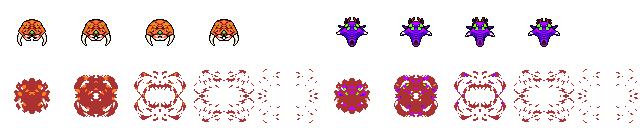
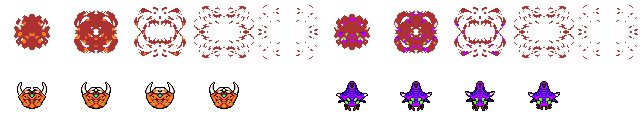
feat: Yellow Crab boss part 1

diff --git a/src/assets-loader/enemy-ships.js b/src/assets-loader/enemy-ships.js
@@ -1,21 +1,21 @@
 export default () => {
-  Crafty.c('Sprite_EnemyBoss01', {
+  Crafty.c('Sprite_EnemyBossYellowCrab', {
     init: function () {
-      this.requires('Canvas, SpriteAnimationExt, EnemyBoss01Sprite')
-        .origin(32, 32)
+      this.requires('Canvas, SpriteAnimationExt, EnemyBossYellowCrabSprite')
+        .attr({ w: 96, h: 96 })
+        .origin(48, 48)
         .reel('level', 750, [
-          [1, 0, 1, 1],
-          [0, 0, 1, 1],
-          [2, 0, 1, 1],
-          [3, 0, 1, 1]
+          [0, 1, 1, 1],
+          [1, 1, 1, 1],
+          [2, 1, 1, 1],
+          [3, 1, 1, 1]
         ])
-        // .reel('explode', 500, [
-        //   [0, 0.5, 1, 1],
-        //   [1, 0.5, 1, 1],
-        //   [2, 0.5, 1, 1],
-        //   [3, 0.5, 1, 1],
-        //   [4, 0.5, 1, 1]
-        // ])
+        .reel('charging', 150, [
+          [0, 1, 1, 1],
+          [1, 1, 1, 1],
+          [2, 1, 1, 1],
+          [3, 1, 1, 1]
+        ])
         .animate('level', -1)
     }
   })

diff --git a/src/ships/enemies/yellow-crab-boss.js b/src/ships/enemies/yellow-crab-boss.js
@@ -1,7 +1,31 @@
+import '@/components/move-to'
+
+import { createWeaponGeneric } from '@/weapons'
+import { createCrabCubProjectile as createProjectile } from '@/weapons/projectiles'
 import { createEnemyBossBase } from './base'
+import { screenSize } from '@/device'
 
 export const createYellowCrabBoss = () => {
-  return createEnemyBossBase('Sprite_EnemyBoss01')
-    .setStructure(4, 0, 'Sprite_ExplosionBossYellowCrab')
-    .setHitbox(32)
+  const e = createEnemyBossBase('Sprite_EnemyBossYellowCrab, MoveTo')
+    .setStructure(1200, 0, 'Sprite_ExplosionBossYellowCrab')
+    .setHitbox(40)
+
+  e.x = (screenSize.w - e.w) / 2
+  e.y = -70
+
+  const { ox, oy } = e
+
+  const w = createWeaponGeneric({ createProjectile, power: 3 })
+    .lookDirection(e.getForward())
+    .attr({ ox, oy })
+  e.attach(w)
+
+  // Intro
+  e.moveTo({ x: e.x, y: 20, speed: 10 })
+
+  // e.delay(() => {
+  //   w.startFire(false)
+  // }, 1000, -1)
+
+  return e
 }

diff --git a/src/assets-loader/index.js b/src/assets-loader/index.js
@@ -35,10 +35,10 @@ const assets = {
       tile: 64,
       tileh: 64,
       map: {
-        EnemyBoss01Sprite: [0, 0, 1, 1],
-        EnemyBoss02Sprite: [5, 0, 1, 1],
-        ExplosionBossYellowCrabSprite: [0, 1, 1, 1],
-        ExplosionBossBlueSucklingSprite: [5, 1, 1, 1]
+        EnemyBossYellowCrabSprite: [0, 1, 1, 1],
+        EnemyBossBlueSucklingSprite: [5, 1, 1, 1],
+        ExplosionBossYellowCrabSprite: [0, 0, 1, 1],
+        ExplosionBossBlueSucklingSprite: [5, 0, 1, 1]
       }
     },
     'Enemies_Unit_Regular.png': {
@@ -58,7 +58,9 @@ const assets = {
       tileh: 16,
       map: {
         ProjectileGreenAcidSprite: [3, 8, 1, 1],
-        ProjectileSpitterBileSprite: [3, 1, 1, 1]
+        ProjectileSpitterBileSprite: [3, 1, 1, 1],
+        ProjectileCrabCubSprite: [3, 4, 1, 1],
+        ExplosionAcidSplashSprite: [6, 4, 1, 1]
       }
     },
 

diff --git a/src/ships/enemies/fly.js b/src/ships/enemies/fly.js
@@ -1,6 +1,5 @@
 import '@/components/random-start'
 import '@/components/move-zig-zag'
-import '@/components/weapon'
 import { createEnemyBase } from './base'
 import { createWeaponGeneric } from '@/weapons'
 import { createGreenAcidProjectile as createProjectile } from '@/weapons/projectiles'
@@ -20,7 +19,7 @@ export const createEnemyFly = () => {
 
   const { ox, oy } = e
 
-  const w = createWeaponGeneric({ createProjectile, power: 1, rateOfFire: 0.5 })
+  const w = createWeaponGeneric({ createProjectile, power: 1 })
     .lookDirection(e.getForward())
     .setWeaponTracking(getPlayerInstance)
     .attr({ ox, oy })

diff --git a/src/index.js b/src/index.js
@@ -69,20 +69,17 @@ function hello (godmode) {
   new ParallaxSpaceScene()
 
   const powerHostSpawner = new GenericSpawner(createPowerHostSwarm, 2000, 2000)
-  powerHostSpawner.start()
+  powerHostSpawner.stop()
 
   const flySpawner = new GenericSpawner(createEnemyFly, 15000, 20000)
   flySpawner.stop()
 
   const spitterSpawner = new SpitterSpawner()
-  spitterSpawner.start()
+  spitterSpawner.stop()
 
   createPlayerFighterGreen(godmode ? Number.MAX_SAFE_INTEGER : 1)
 
-  createYellowCrabBoss().attr({
-    x: 100,
-    y: 20
-  })
+  createYellowCrabBoss()
 
   // createYellowCrabBoss().attr({
   //   x: 100,

diff --git a/src/assets-loader/explosions.js b/src/assets-loader/explosions.js
@@ -110,4 +110,20 @@ export default () => {
         .destroyOnEnd()
     }
   })
+
+  Crafty.c('Sprite_ExplosionAcidSplash', {
+    init: function () {
+      this.requires('Canvas, SpriteAnimationExt, ExplosionAcidSplashSprite')
+        .origin(8, 8)
+        .reel('default', 250, [
+          [6, 4, 1, 1],
+          [7, 4, 1, 1],
+          [8, 4, 1, 1],
+          [9, 4, 1, 1],
+          [10, 4, 1, 1]
+        ])
+        .animate('default')
+        .destroyOnEnd()
+    }
+  })
 }

diff --git a/src/ships/enemies/spitter.js b/src/ships/enemies/spitter.js
@@ -1,4 +1,3 @@
-import '@/components/weapon'
 import '@/components/move-to'
 import '@/components/self-destroy'
 
@@ -21,7 +20,7 @@ export const createEnemySpitter = ({ startX, startY, moveX, moveY }) => {
 
   const { ox, oy } = e
 
-  const w = createWeaponGeneric({ createProjectile, power: 1, rateOfFire: 0.5 })
+  const w = createWeaponGeneric({ createProjectile, power: 1 })
     .lookDirection(e.getForward())
     .setWeaponTracking(getPlayerInstance)
     .attr({ ox, oy })

diff --git a/src/assets-loader/projectiles.js b/src/assets-loader/projectiles.js
@@ -95,4 +95,18 @@ export default () => {
         .animate('default', -1)
     }
   })
+
+  Crafty.c('Sprite_ProjectileCrabCub', {
+    init: function () {
+      this.requires('Canvas, SpriteAnimationExt, ProjectileCrabCubSprite')
+        .attr({ w: 24, h: 24 })
+        .origin(12, 12)
+        .reel('default', 250, [
+          [3, 4, 1, 1],
+          [4, 4, 1, 1],
+          [5, 4, 1, 1]
+        ])
+        .animate('default', -1)
+    }
+  })
 }

diff --git a/src/weapons/projectiles/crab-cub.js b/src/weapons/projectiles/crab-cub.js
@@ -1,0 +1,10 @@
+import { createProjectileBase } from './base'
+
+export const createCrabCubProjectile = specs => {
+  const { profile, power } = specs
+  return createProjectileBase(specs)
+    .addComponent(`Sprite_ProjectileCrabCub`)
+    .setProps(profile, power, { impact: 'Sprite_ExplosionAcidSplash' })
+    .setHitbox(8)
+    .moveForward(40)
+}

diff --git a/src/weapons/projectiles/index.js b/src/weapons/projectiles/index.js
@@ -3,3 +3,4 @@ export { createMultiProjectile } from './multi-projectile'
 export { createLaserBeam } from './laser-beam'
 export { createGreenAcidProjectile } from './green-acid'
 export { createSpitterBile } from './spitter-bile'
+export { createCrabCubProjectile } from './crab-cub'
